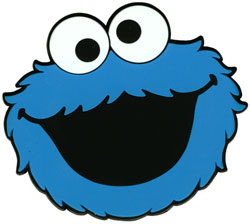
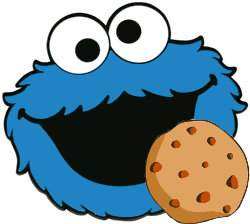
click the cookie in cookie monster's mouth to indicate a cookie is there

Changed region(s): [[0.56, 0.5312, 1.0, 1.0], [0.952, 0.4688, 0.98, 0.5]]

diff --git a/game.py b/game.py
@@ -192,14 +192,15 @@ class Game():
 
         if event.button > 1:
             if spr.type != 0:
-                if spr.type in [1, 2]:
-                    spr.set_shape(self._new_dot(self._colors[2]))
-                    spr.type += 2
-                else:  # elif spr.type in [3, 4]:
-                    spr.set_shape(self._new_dot(self._colors[1]))
-                    spr.type -= 2
-            self._test_game_over()
+                self._flip_the_cookie(spr)
             return True
+        else:
+            if spr.type != 0:
+                red, green, blue, alpha = spr.get_pixel((x, y))
+                _logger.debug('red %d' % (red))
+                if red > 40 and red < 240:  # touched the cookie
+                    self._flip_the_cookie(spr)
+                    return True
 
         if spr.type in [2, 4]:
             spr.set_shape(self._new_dot(self._colors[4]))
@@ -211,6 +212,15 @@ class Game():
             self._test_game_over()
 
         return True
+
+    def _flip_the_cookie(self, spr):
+        if spr.type in [1, 2]:
+            spr.set_shape(self._new_dot(self._colors[2]))
+            spr.type += 2
+        else:  # elif spr.type in [3, 4]:
+            spr.set_shape(self._new_dot(self._colors[1]))
+            spr.type -= 2
+        self._test_game_over()
 
     def remote_button_press(self, dot, color):
         ''' Receive a button press from a sharer '''
